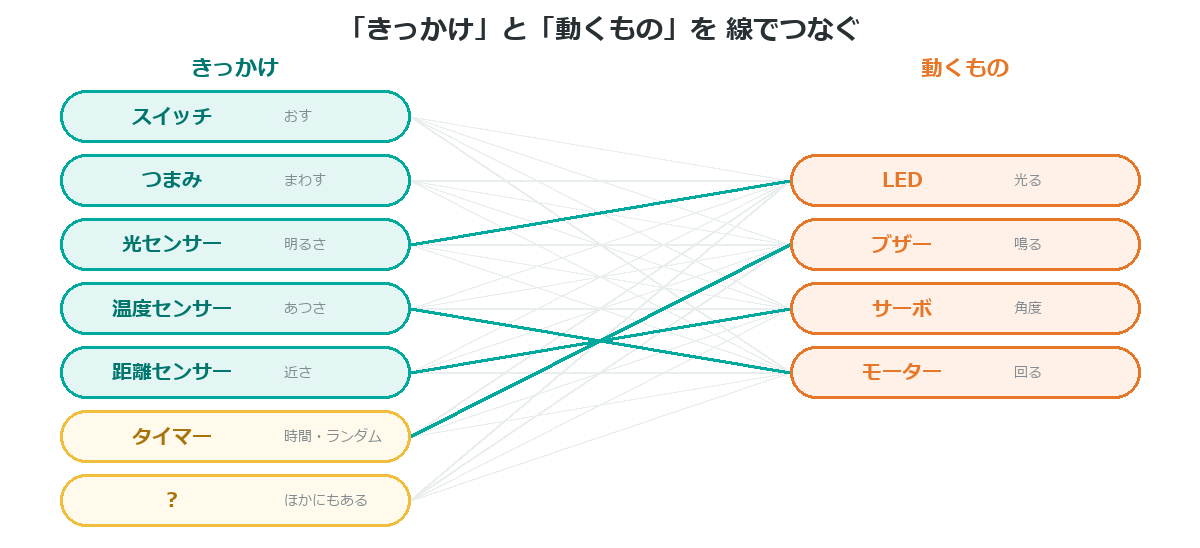
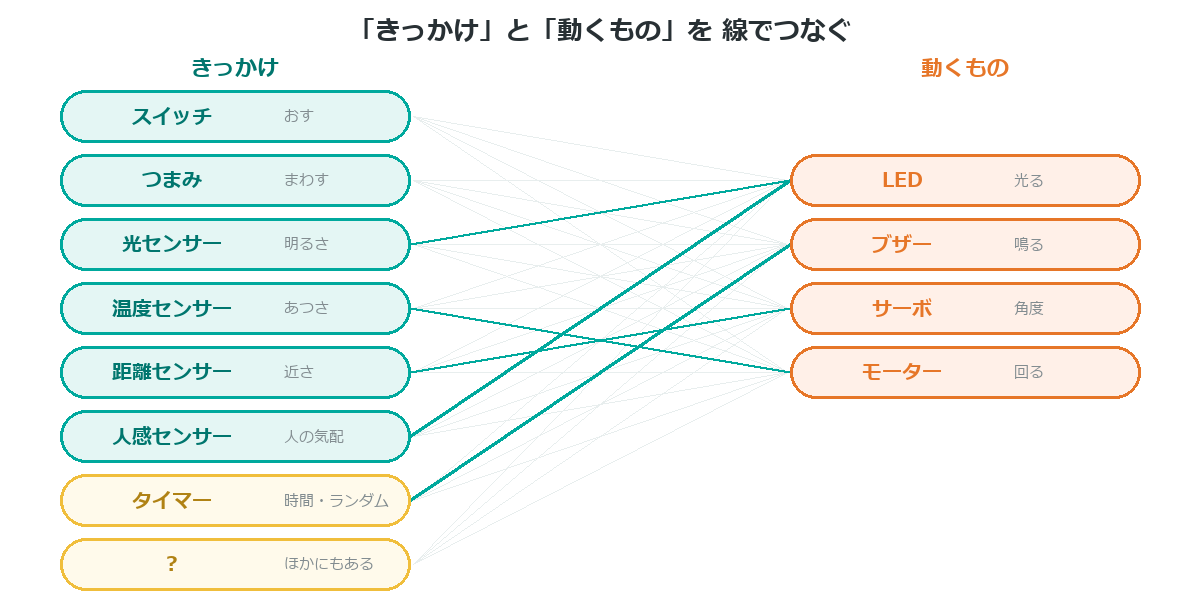
p1 の組み合わせ図の「きっかけ」に人感センサーを足した
図のスクリプトが残っていなかったので tools/fig_sense_act.py として描きなおした。
例の線に「人感センサー → LED」を1本足した。

diff --git a/tools/fig_sense_act.py b/tools/fig_sense_act.py
@@ -1,0 +1,62 @@
+# -*- coding: utf-8 -*-
+"""p1「組み合わせて考える」の図。きっかけ（左）と 動くもの（右）を線でつなぐ。
+
+もとの図（2026-09-20）は生成スクリプトが残っていなかったので、寸法を測って描きなおした。
+2026-11-14 に「人感センサー」を足した（発展編 e3）。
+"""
+import sys
+sys.path.insert(0, "tools")
+sys.stdout.reconfigure(encoding="utf-8")
+from fig import *
+
+LINE      = (232, 238, 238)       # うすい線（つなぎ方はほかにもある）
+PALEGOLD  = (255, 250, 235)
+PALEORANGE = (255, 240, 232)
+DARKGOLD  = (176, 130, 20)
+
+# （名前, ひとこと, 黄色か）。黄色は「センサーではないきっかけ」
+TRIG = [("スイッチ", "おす", 0), ("つまみ", "まわす", 0), ("光センサー", "明るさ", 0),
+        ("温度センサー", "あつさ", 0), ("距離センサー", "近さ", 0),
+        ("人感センサー", "人の気配", 0),
+        ("タイマー", "時間・ランダム", 1), ("?", "ほかにもある", 1)]
+ACT  = [("LED", "光る"), ("ブザー", "鳴る"), ("サーボ", "角度"), ("モーター", "回る")]
+# 太線で例を示す（きっかけの番号, 動くものの番号）
+PICK = [(2, 0), (3, 3), (4, 2), (5, 0), (6, 1)]
+
+LX0, LX1 = 60, 410
+RX0, RX1 = 790, 1140
+H, STEP, TOP = 52, 64, 90
+H_ALL = TOP + STEP * (len(TRIG) - 1) + H                     # 左の列の下はし
+RTOP = TOP + STEP                                             # 右の列は左の2つめにそろえる（線がななめになって「つなぐ」感じが出る）
+
+def ly(i): return TOP + STEP * i + H // 2
+def ry(j): return RTOP + STEP * j + H // 2
+
+im, d = canvas(1200, H_ALL + 22)
+center(d, 600, 12, "「きっかけ」と「動くもの」を 線でつなぐ", bold(26))
+center(d, 235, 52, "きっかけ", bold(22), DARKTEAL)
+center(d, 965, 52, "動くもの", bold(22), DEEPORANGE)
+
+for i in range(len(TRIG)):
+    for j in range(len(ACT)):
+        d.line([LX1 + 3, ly(i), RX0 - 3, ry(j)], fill=LINE, width=1)
+for i, j in PICK:
+    d.line([LX1, ly(i), RX0, ry(j)], fill=TEAL, width=3)
+
+for i, (name, sub, gold) in enumerate(TRIG):
+    y = TOP + STEP * i
+    edge, fill, ink = (GOLD, PALEGOLD, DARKGOLD) if gold else (TEAL, SOFT, DARKTEAL)
+    d.rounded_rectangle([LX0, y, LX1, y + H], radius=H // 2, fill=fill, outline=edge, width=3)
+    middle(d, 172, y + H / 2, name, bold(20), ink)
+    b = d.textbbox((0, 0), sub, font=reg(15))
+    d.text((284, y + H / 2 - (b[3] - b[1]) / 2 - b[1]), sub, font=reg(15), fill=GRAY)
+
+for j, (name, sub) in enumerate(ACT):
+    y = RTOP + STEP * j
+    d.rounded_rectangle([RX0, y, RX1, y + H], radius=H // 2, fill=PALEORANGE,
+                        outline=DEEPORANGE, width=3)
+    middle(d, 902, y + H / 2, name, bold(20), DEEPORANGE)
+    b = d.textbbox((0, 0), sub, font=reg(15))
+    d.text((1014, y + H / 2 - (b[3] - b[1]) / 2 - b[1]), sub, font=reg(15), fill=GRAY)
+
+save(im, "p1_idea", "sense_act.png")
